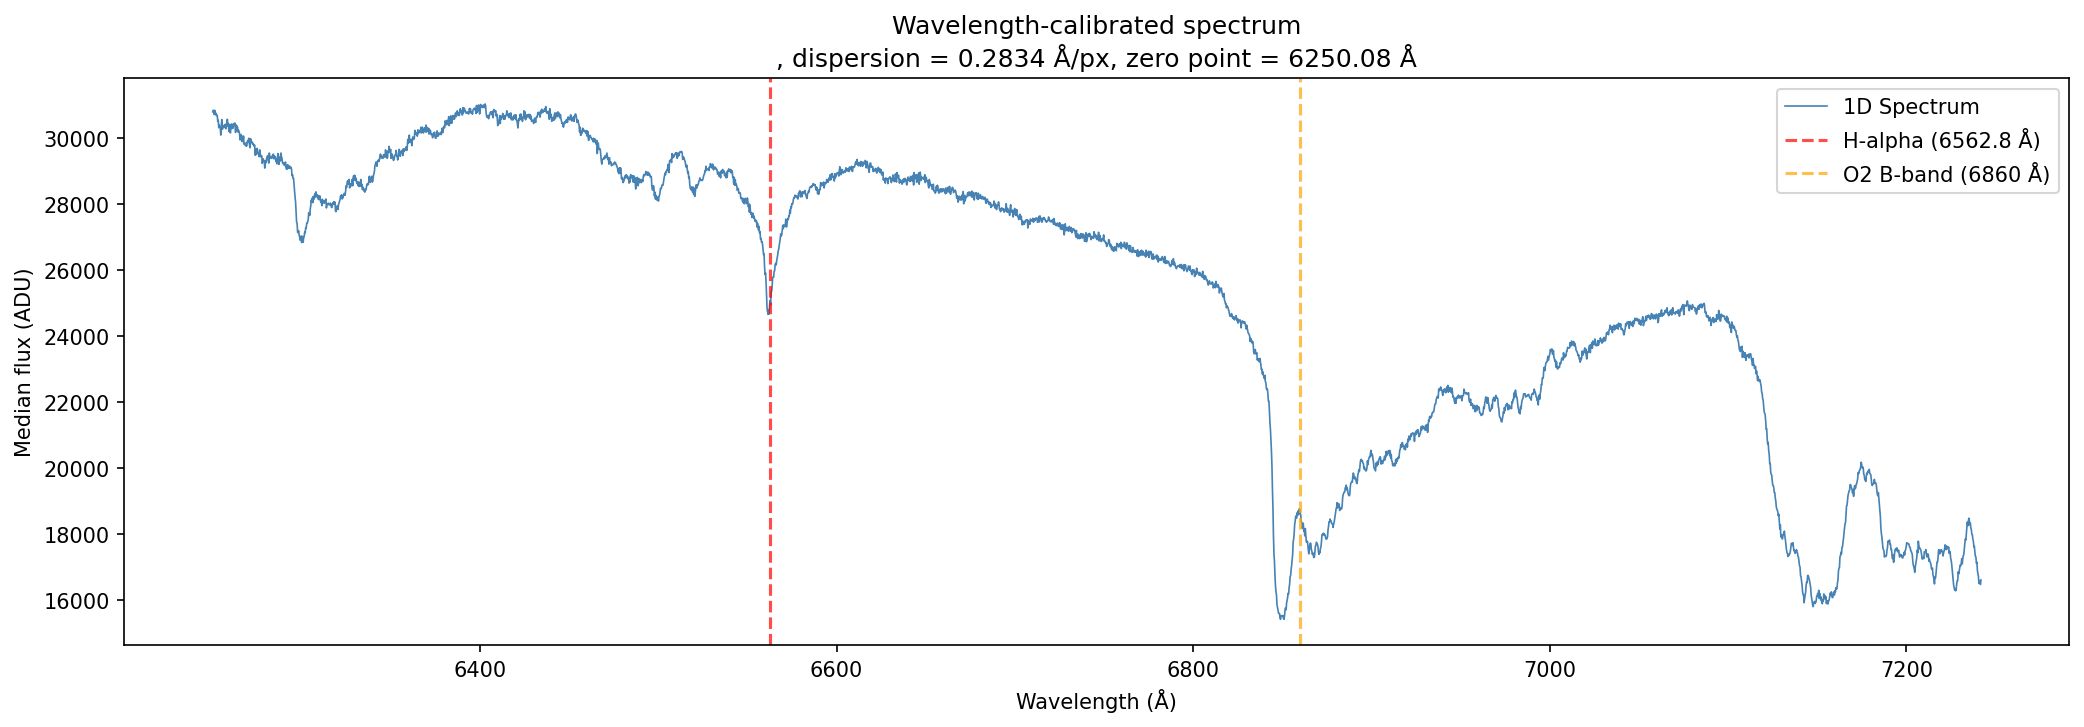
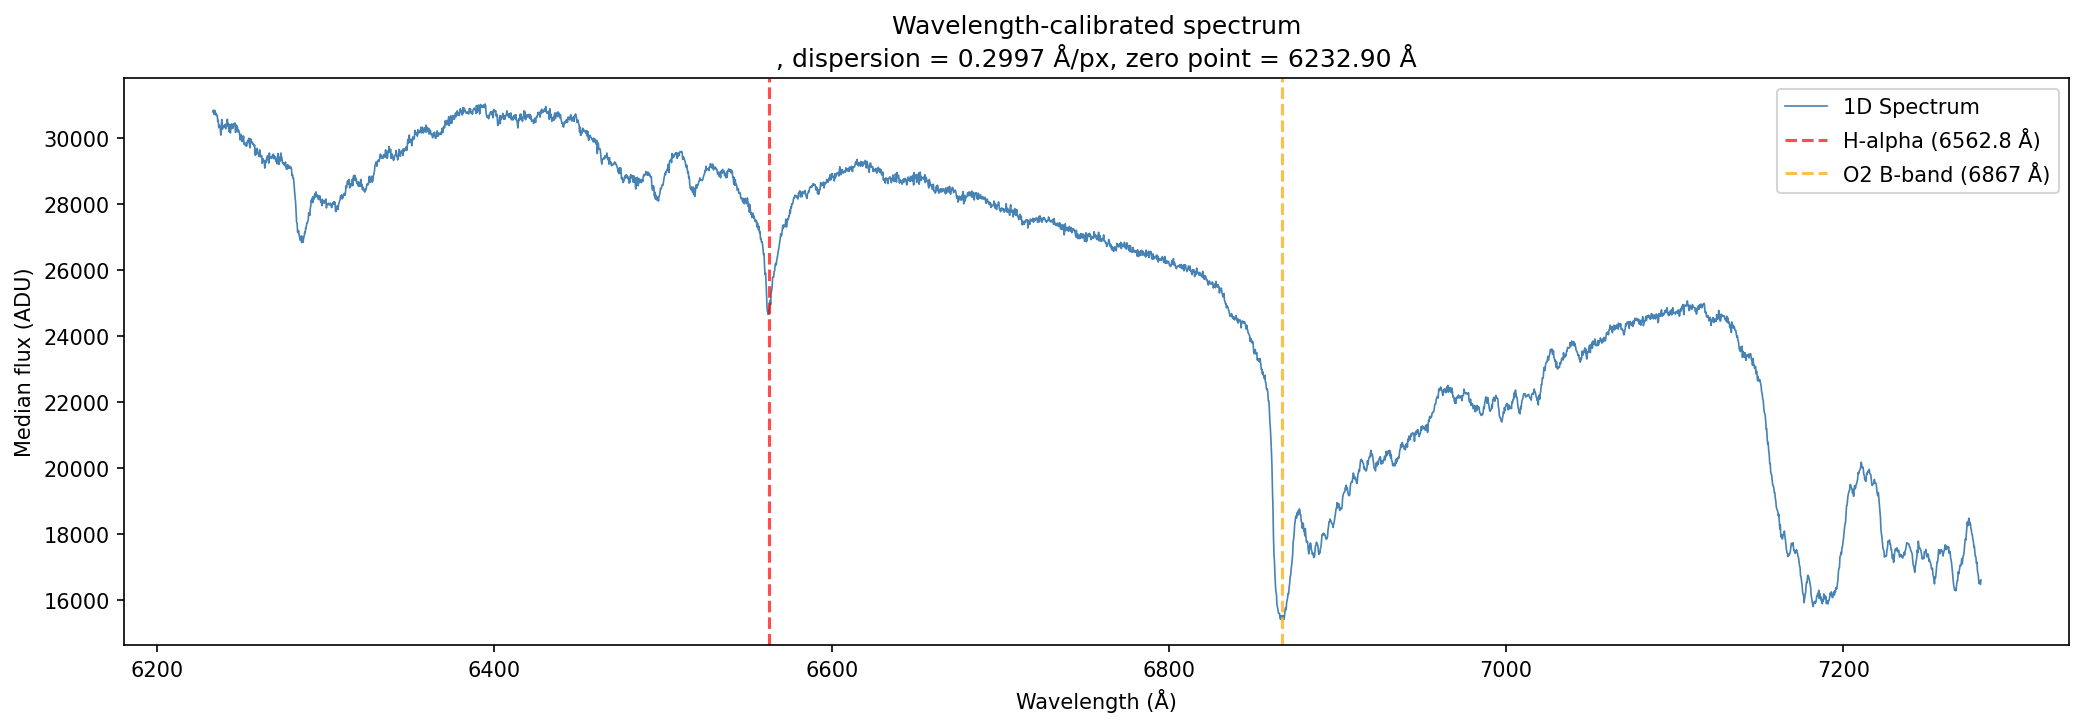
some changes made to hardcode the approximation lines for wavelength solution better

diff --git a/data_analysis_pipeline/wavelength.py b/data_analysis_pipeline/wavelength.py
@@ -53,7 +53,7 @@ def build_wavelength_solution(spectrum):
     zero_point = config.halpha - dispersion*px_halpha 
 
     # should be .14 or so A/px
-    if not (0.08 < abs(dispersion) < 0.25):
+    if not (0.08 < abs(dispersion) < 0.40):
         print(f"Dispersion {dispersion:.4f} is outside range")
     print(f"H-alpha center: {px_halpha:.2f} px")
     print(f"O2 center: {px_o2:.2f} px")
@@ -103,3 +103,4 @@ if __name__ == "__main__":
         print(f"\nWavelength axis: {wavelengths[0]:.1f} — {wavelengths[-1]:.1f} Å")
     else:
         print("Wavelength solution failed — check config.py approx pixel values")
+

diff --git a/data_analysis_pipeline/config.py b/data_analysis_pipeline/config.py
@@ -25,9 +25,9 @@ date_obs = "DATE-OBS"
 halpha = 6562.8
 oxygen_2 = 6867 # i think
 halpha_approx_px = 1100
-o2_approx_px = 2125
+o2_approx_px = 2115
 
-searchline = 80 # search window for fitting line on reference frame
+searchline = 10 # search window for fitting line on reference frame
 
 # equivalent width stuff
 halpha_halfwidth = 8.0 # measure 8 angstroms to either side of centered line 
